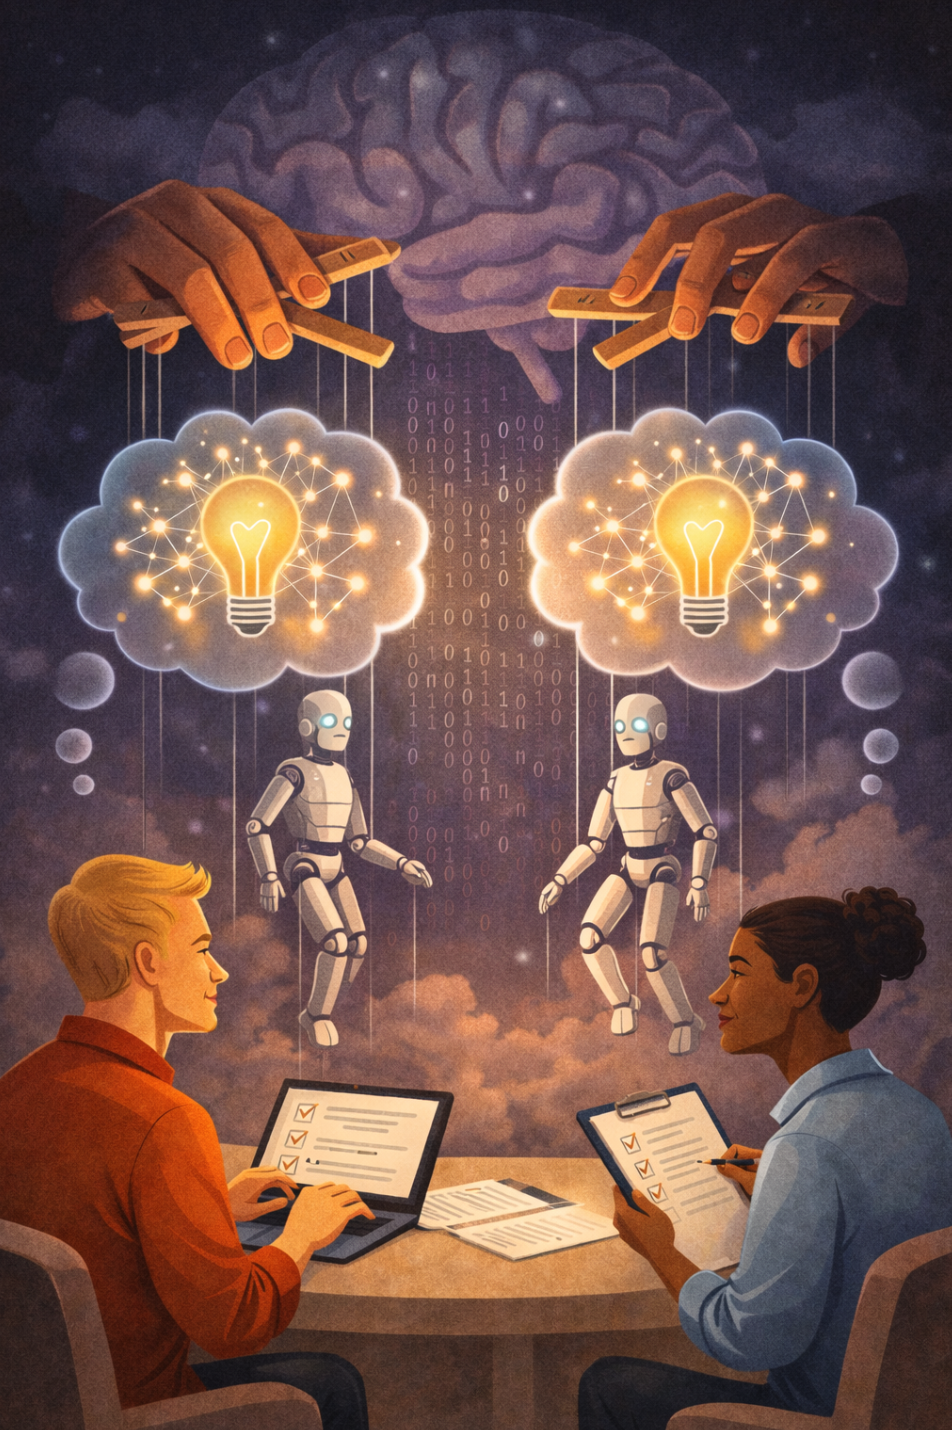
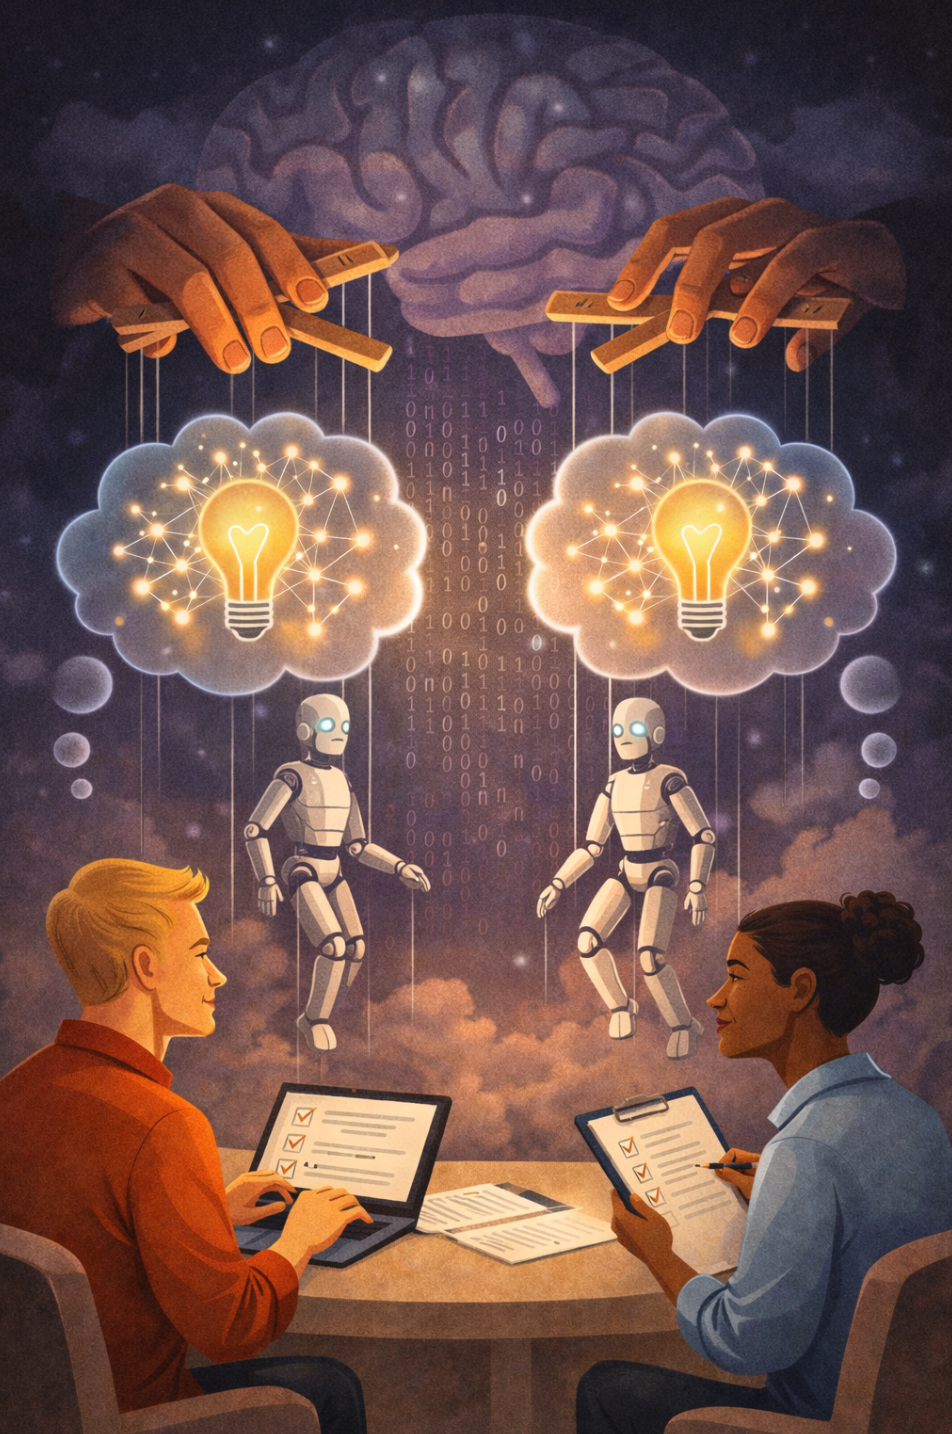
Add extended hover area with smooth 3D effect transition
- Book hover effect now works from 60px outside the book area
- Only affects closest book to prevent overlap between adjacent cards
- Smooth interpolation: full effect over book, subtle in extended area
- Continuous transition with no jumps between zones

diff --git a/index.html b/index.html
@@ -2192,121 +2192,161 @@
       const searchInput = document.getElementById('search-input');
       const bookCards = document.querySelectorAll('.book-card');
 
-      // Book interaction
+      // Book interaction with extended hover area
+      const defaultRotateX = 8;
+      const defaultRotateY = -25;
+      const extraPadding = 60; // Extra area around book for hover effect
+      let activeBook = null;
+      let dragState = null;
+
+      // Global mousemove for extended hover area
+      document.addEventListener('mousemove', (e) => {
+        if (dragState) {
+          // Handle dragging
+          const deltaX = e.clientX - dragState.startX;
+          const deltaY = e.clientY - dragState.startY;
+          dragState.rotateY += deltaX * 0.5;
+          dragState.rotateX -= deltaY * 0.3;
+          dragState.book.style.transform = `rotateX(${dragState.rotateX}deg) rotateY(${dragState.rotateY}deg)`;
+          dragState.startX = e.clientX;
+          dragState.startY = e.clientY;
+          return;
+        }
+
+        // Find closest book within extended area
+        let closestContainer = null;
+        let closestDist = Infinity;
+        let isInsideBook = false;
+
+        containers.forEach(container => {
+          const rect = container.getBoundingClientRect();
+          const centerX = rect.left + rect.width / 2;
+          const centerY = rect.top + rect.height / 2;
+
+          // Check if mouse is directly over the book
+          const inBookX = e.clientX >= rect.left && e.clientX <= rect.right;
+          const inBookY = e.clientY >= rect.top && e.clientY <= rect.bottom;
+
+          // Check if mouse is within extended bounds
+          const inExtendedX = e.clientX >= rect.left - extraPadding && e.clientX <= rect.right + extraPadding;
+          const inExtendedY = e.clientY >= rect.top - extraPadding && e.clientY <= rect.bottom + extraPadding;
+
+          if (inExtendedX && inExtendedY) {
+            const dist = Math.hypot(e.clientX - centerX, e.clientY - centerY);
+            if (dist < closestDist) {
+              closestDist = dist;
+              closestContainer = container;
+              isInsideBook = inBookX && inBookY;
+            }
+          }
+        });
+
+        // Reset previous active book if different
+        if (activeBook && activeBook !== closestContainer) {
+          const prevBook = activeBook.querySelector('.book');
+          prevBook.classList.remove('no-transition');
+          prevBook.style.transform = `rotateX(${defaultRotateX}deg) rotateY(${defaultRotateY}deg)`;
+        }
+
+        activeBook = closestContainer;
+
+        if (closestContainer) {
+          const book = closestContainer.querySelector('.book');
+          const rect = closestContainer.getBoundingClientRect();
+          const centerX = rect.left + rect.width / 2;
+          const centerY = rect.top + rect.height / 2;
+
+          // Calculate distance from book edge (0 = on edge, negative = inside, positive = outside)
+          const distFromLeft = rect.left - e.clientX;
+          const distFromRight = e.clientX - rect.right;
+          const distFromTop = rect.top - e.clientY;
+          const distFromBottom = e.clientY - rect.bottom;
+          const distFromEdge = Math.max(distFromLeft, distFromRight, distFromTop, distFromBottom, 0);
+
+          // Interpolate multiplier: full effect at edge (0), subtle at max padding
+          const t = Math.min(distFromEdge / extraPadding, 1); // 0 to 1
+          const minMultY = 0.04, maxMultY = 0.15;
+          const minMultX = 0.03, maxMultX = 0.1;
+          const multiplierY = maxMultY - t * (maxMultY - minMultY);
+          const multiplierX = maxMultX - t * (maxMultX - minMultX);
+
+          book.classList.add('no-transition');
+          const hoverRotateY = defaultRotateY + (e.clientX - centerX) * multiplierY;
+          const hoverRotateX = defaultRotateX - (e.clientY - centerY) * multiplierX;
+          book.style.transform = `rotateX(${hoverRotateX}deg) rotateY(${hoverRotateY}deg)`;
+        }
+      });
+
+      // Drag support
       containers.forEach(container => {
         const book = container.querySelector('.book');
-        const defaultRotateX = 8;
-        const defaultRotateY = -25;
 
-        let isDragging = false;
-        let startX, startY;
-        let rotateX = defaultRotateX;
-        let rotateY = defaultRotateY;
-
-        const updateTransform = () => {
-          book.style.transform = `rotateX(${rotateX}deg) rotateY(${rotateY}deg)`;
-        };
-
-        const onMouseMove = (e) => {
-          if (isDragging) {
-            const deltaX = e.clientX - startX;
-            const deltaY = e.clientY - startY;
-            rotateY += deltaX * 0.5;
-            rotateX -= deltaY * 0.3;
-            updateTransform();
-            startX = e.clientX;
-            startY = e.clientY;
-          } else {
-            const rect = container.getBoundingClientRect();
-            const centerX = rect.left + rect.width / 2;
-            const centerY = rect.top + rect.height / 2;
-            const hoverRotateY = defaultRotateY + (e.clientX - centerX) * 0.15;
-            const hoverRotateX = defaultRotateX - (e.clientY - centerY) * 0.1;
-            book.style.transform = `rotateX(${hoverRotateX}deg) rotateY(${hoverRotateY}deg)`;
-          }
-        };
-
-        const onMouseDown = (e) => {
-          isDragging = true;
-          container.classList.add('dragging');
-          book.classList.add('no-transition');
-          startX = e.clientX;
-          startY = e.clientY;
+        container.addEventListener('mousedown', (e) => {
           const rect = container.getBoundingClientRect();
           const centerX = rect.left + rect.width / 2;
           const centerY = rect.top + rect.height / 2;
-          rotateY = defaultRotateY + (e.clientX - centerX) * 0.15;
-          rotateX = defaultRotateX - (e.clientY - centerY) * 0.1;
+
+          dragState = {
+            container,
+            book,
+            startX: e.clientX,
+            startY: e.clientY,
+            rotateX: defaultRotateX - (e.clientY - centerY) * 0.1,
+            rotateY: defaultRotateY + (e.clientX - centerX) * 0.15
+          };
+          container.classList.add('dragging');
+          book.classList.add('no-transition');
           e.preventDefault();
-        };
-
-        const onMouseUp = () => {
-          if (!isDragging) return;
-          isDragging = false;
-          container.classList.remove('dragging');
-          book.classList.remove('no-transition');
-          rotateX = defaultRotateX;
-          rotateY = defaultRotateY;
-          updateTransform();
-        };
-
-        const onMouseLeave = () => {
-          if (!isDragging) {
-            book.classList.remove('no-transition');
-            book.style.transform = `rotateX(${defaultRotateX}deg) rotateY(${defaultRotateY}deg)`;
-          }
-        };
-
-        const onMouseEnter = () => {
-          if (!isDragging) {
-            book.classList.add('no-transition');
-          }
-        };
+        });
 
         // Touch support
-        const onTouchStart = (e) => {
-          isDragging = true;
-          container.classList.add('dragging');
-          book.classList.add('no-transition');
-          startX = e.touches[0].clientX;
-          startY = e.touches[0].clientY;
+        container.addEventListener('touchstart', (e) => {
           const rect = container.getBoundingClientRect();
           const centerX = rect.left + rect.width / 2;
           const centerY = rect.top + rect.height / 2;
-          rotateY = defaultRotateY + (startX - centerX) * 0.15;
-          rotateX = defaultRotateX - (startY - centerY) * 0.1;
-        };
+          const touch = e.touches[0];
 
-        const onTouchMove = (e) => {
-          if (!isDragging) return;
-          const deltaX = e.touches[0].clientX - startX;
-          const deltaY = e.touches[0].clientY - startY;
-          rotateY += deltaX * 0.5;
-          rotateX -= deltaY * 0.3;
-          updateTransform();
-          startX = e.touches[0].clientX;
-          startY = e.touches[0].clientY;
+          dragState = {
+            container,
+            book,
+            startX: touch.clientX,
+            startY: touch.clientY,
+            rotateX: defaultRotateX - (touch.clientY - centerY) * 0.1,
+            rotateY: defaultRotateY + (touch.clientX - centerX) * 0.15
+          };
+          container.classList.add('dragging');
+          book.classList.add('no-transition');
+        }, { passive: true });
+
+        container.addEventListener('touchmove', (e) => {
+          if (!dragState || dragState.container !== container) return;
+          const touch = e.touches[0];
+          const deltaX = touch.clientX - dragState.startX;
+          const deltaY = touch.clientY - dragState.startY;
+          dragState.rotateY += deltaX * 0.5;
+          dragState.rotateX -= deltaY * 0.3;
+          book.style.transform = `rotateX(${dragState.rotateX}deg) rotateY(${dragState.rotateY}deg)`;
+          dragState.startX = touch.clientX;
+          dragState.startY = touch.clientY;
           e.preventDefault();
-        };
+        }, { passive: false });
 
-        const onTouchEnd = () => {
-          if (!isDragging) return;
-          isDragging = false;
+        container.addEventListener('touchend', () => {
+          if (!dragState || dragState.container !== container) return;
           container.classList.remove('dragging');
           book.classList.remove('no-transition');
-          rotateX = defaultRotateX;
-          rotateY = defaultRotateY;
-          updateTransform();
-        };
+          book.style.transform = `rotateX(${defaultRotateX}deg) rotateY(${defaultRotateY}deg)`;
+          dragState = null;
+        });
+      });
 
-        container.addEventListener('mouseenter', onMouseEnter);
-        container.addEventListener('mousemove', onMouseMove);
-        container.addEventListener('mouseleave', onMouseLeave);
-        container.addEventListener('mousedown', onMouseDown);
-        document.addEventListener('mouseup', onMouseUp);
-        container.addEventListener('touchstart', onTouchStart, { passive: true });
-        container.addEventListener('touchmove', onTouchMove, { passive: false });
-        container.addEventListener('touchend', onTouchEnd);
+      document.addEventListener('mouseup', () => {
+        if (dragState) {
+          dragState.container.classList.remove('dragging');
+          dragState.book.classList.remove('no-transition');
+          dragState.book.style.transform = `rotateX(${defaultRotateX}deg) rotateY(${defaultRotateY}deg)`;
+          dragState = null;
+        }
       });
 
       // Set book styles based on citation count
